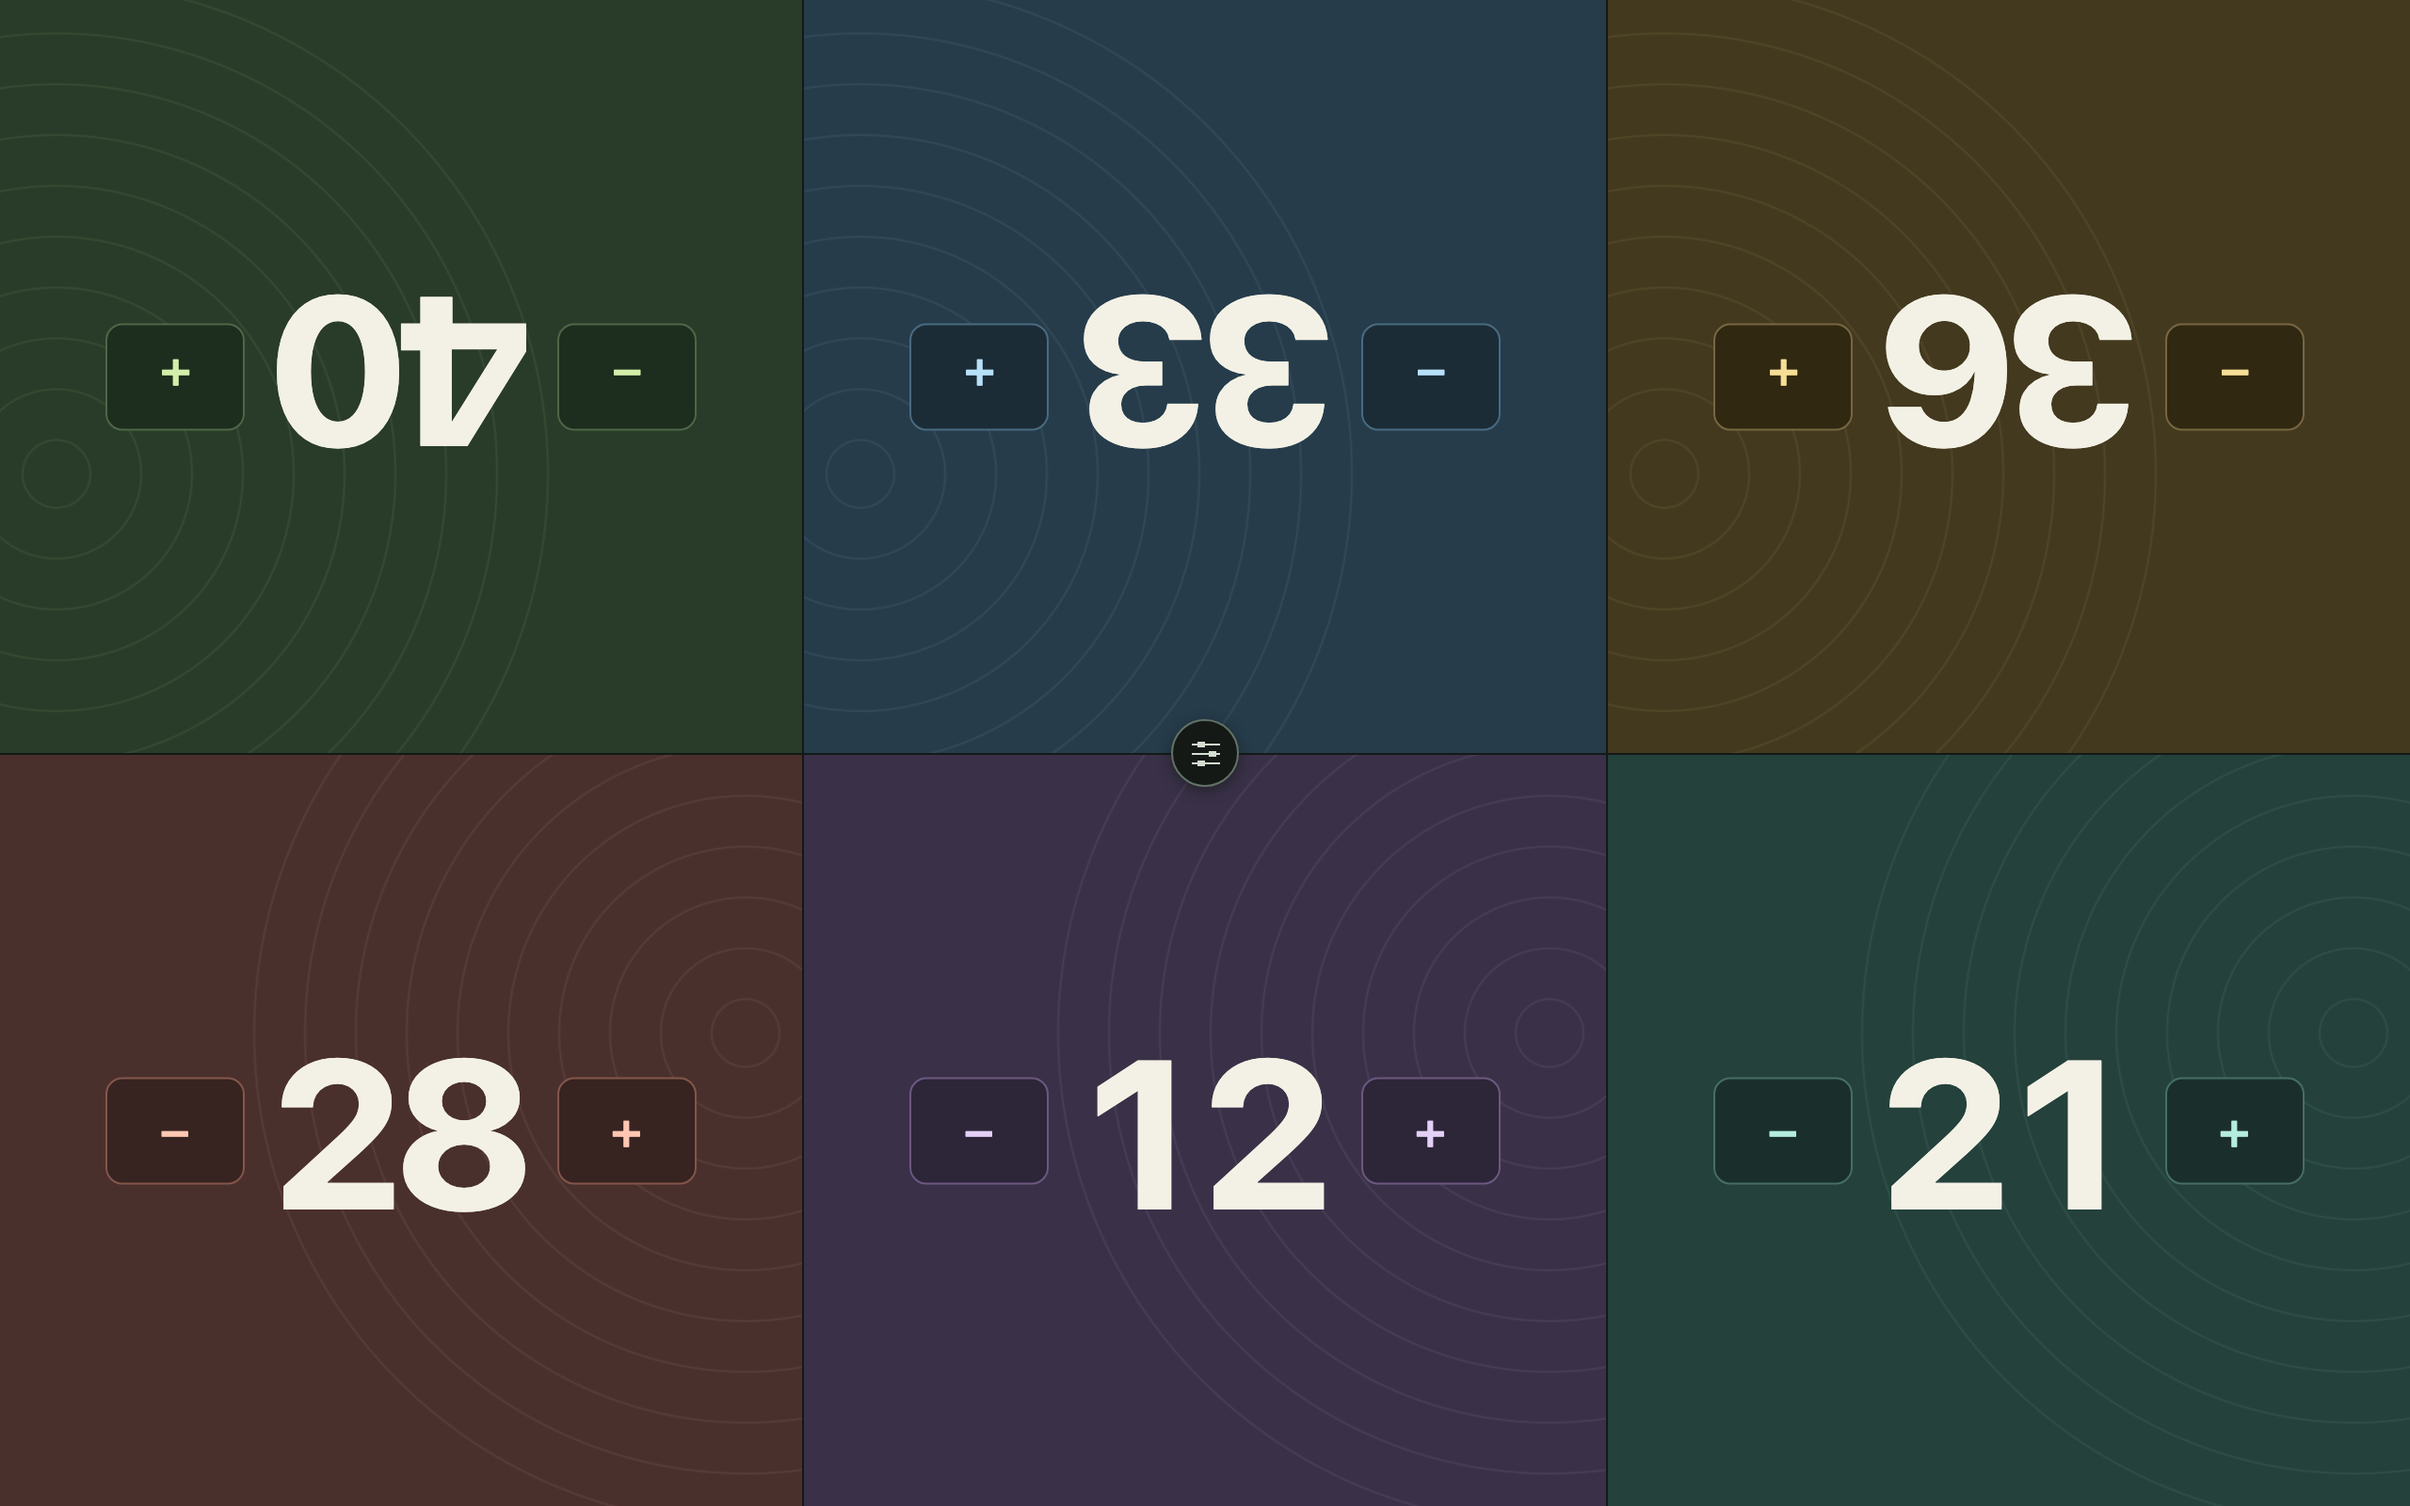
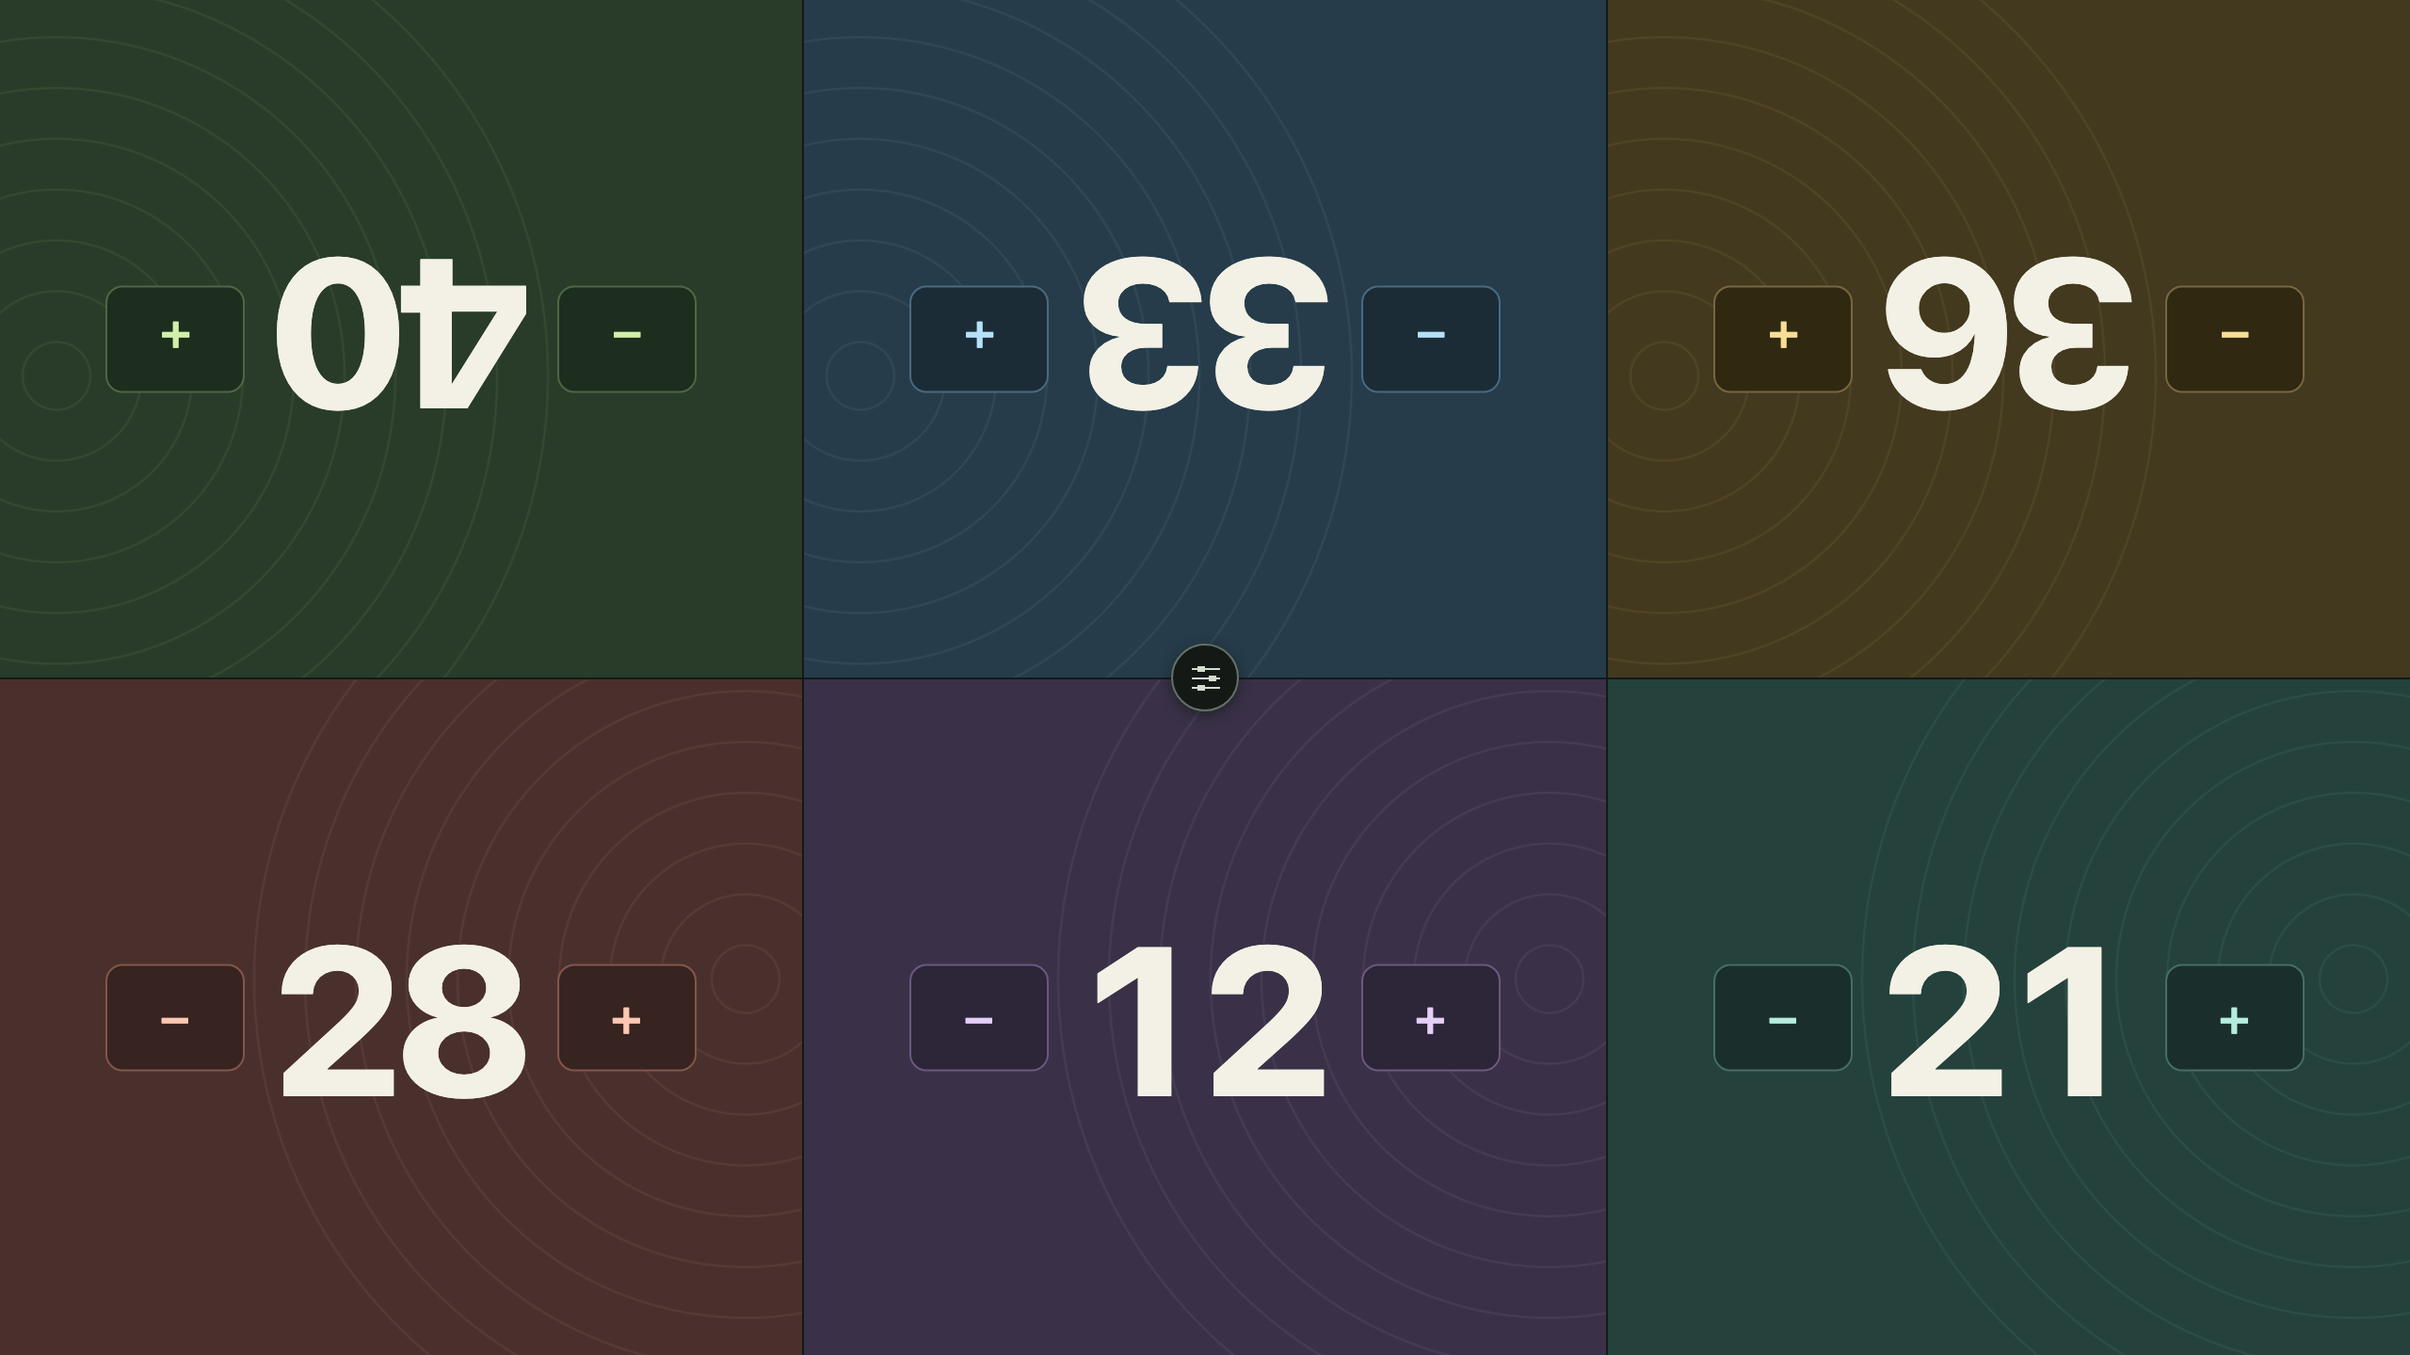
Render Play tablet screenshots at 16:9 and keep the listing text
Google Play requires 16:9 tablet screenshots, so the 10-inch set is now
2560 × 1440 and a 2048 × 1152 7-inch set is added. The store listing text
lives in store/play/listing/.

diff --git a/RELEASING.md b/RELEASING.md
@@ -81,7 +81,8 @@ CI signs `lifepod.apk` with the release key and publishes it with the iOS Simula
 ### Store listing
 
 - Privacy policy: <https://github.com/geota/lifepod/blob/main/PRIVACY.md>
-- Images: `store/play/` has the 512 × 512 icon, the 1024 × 500 feature graphic, and phone and 10-inch tablet screenshots. Regenerate them with `npm run store:images`.
+- Listing text: `store/play/listing/` has the app name, short description, and full description.
+- Images: `store/play/` has the 512 × 512 icon, the 1024 × 500 feature graphic, and 16:9 phone, 7-inch tablet, and 10-inch tablet screenshots. Regenerate them with `npm run store:images`.
 - Ads: none. Data safety: no data collected or shared. Target audience: not children only.
 
 New personal developer accounts must run a closed test with at least 12 testers for 14 days before applying for production.
